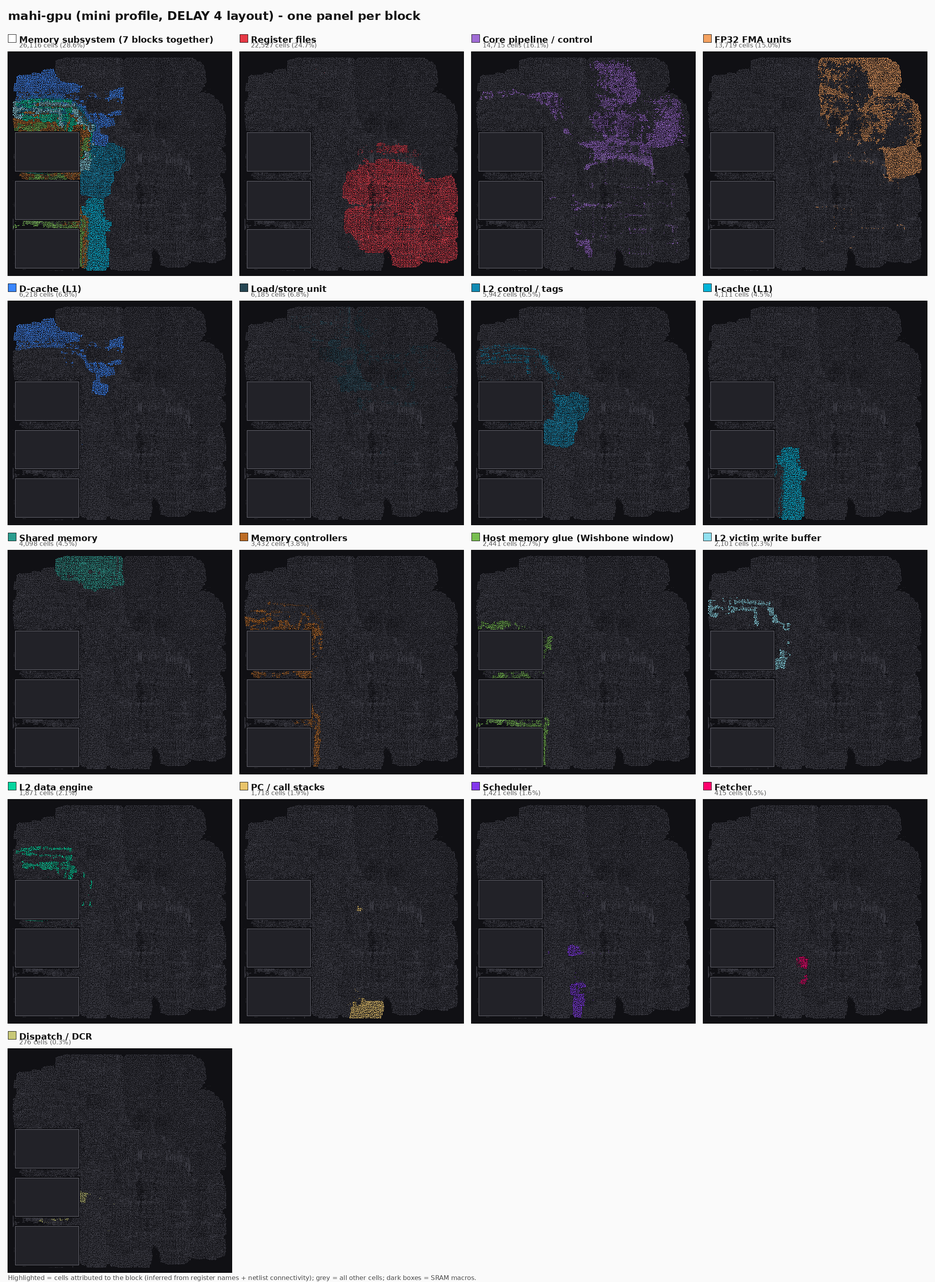
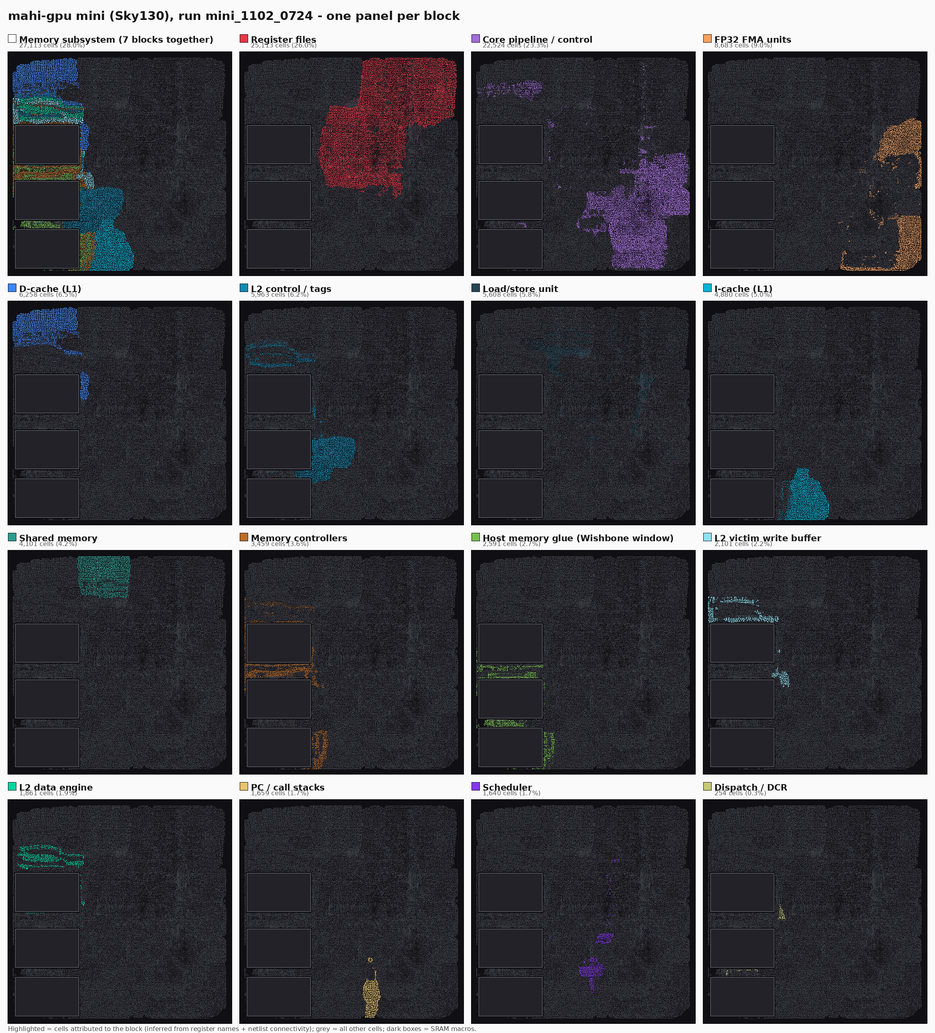
docs: regenerate die map, block regions and per-block panels from mini_1102_0724

diff --git a/ASIC/docs/07-physical-flow.md b/ASIC/docs/07-physical-flow.md
@@ -298,8 +298,9 @@ Doubling the clock would need deeper pipelining across many structures. None of 
 `docs/figures/die_map.png` (every standard cell coloured by block) and `docs/figures/die_regions.png` (flat, outlined block regions in the style of vendor die shots)
 from the routed DEF. The synthesized netlist is flat, so the block of each cell is **inferred**: flip-flops are seeded from the hierarchical net names Yosys kept, the other logic takes
 the majority label of its netlist neighbours, and cells added after synthesis (repair buffers, clock tree, diodes, taps) are grey tones. ALU/decoder logic has no registers to seed it and is
-absorbed by its neighbours. The committed figures are the mini-profile run `floor_1022_1610` (2.4 x 2.4 mm): register files ~21% of cell area, FP32 FMA units 8%, core pipeline 9%; timing-repair buffers
-are 21.5% of cell area (32k cells) and taps 5.4%.
+absorbed by its neighbours. The committed figures (`die_map.png`, `die_regions.png`, `die_blocks.png`, the last from `scripts/die_blocks.py`) are the mini-profile run `mini_1102_0724`
+(2.4 x 2.4 mm, issue-time scoreboard RTL, L2 data macro at y = 1200 um): register files 19.9% of cell area, core pipeline 16.3%, FP32 FMA units 6.0%; timing-repair
+buffers are 17.7% of cell area (31k cells), clock tree 5.2% and taps 4.8%.
 
 ## Analysis maps
 Pictures of a run, for finding floorplan and timing problems (same block inference as the die map; PNGs are written into the run):
